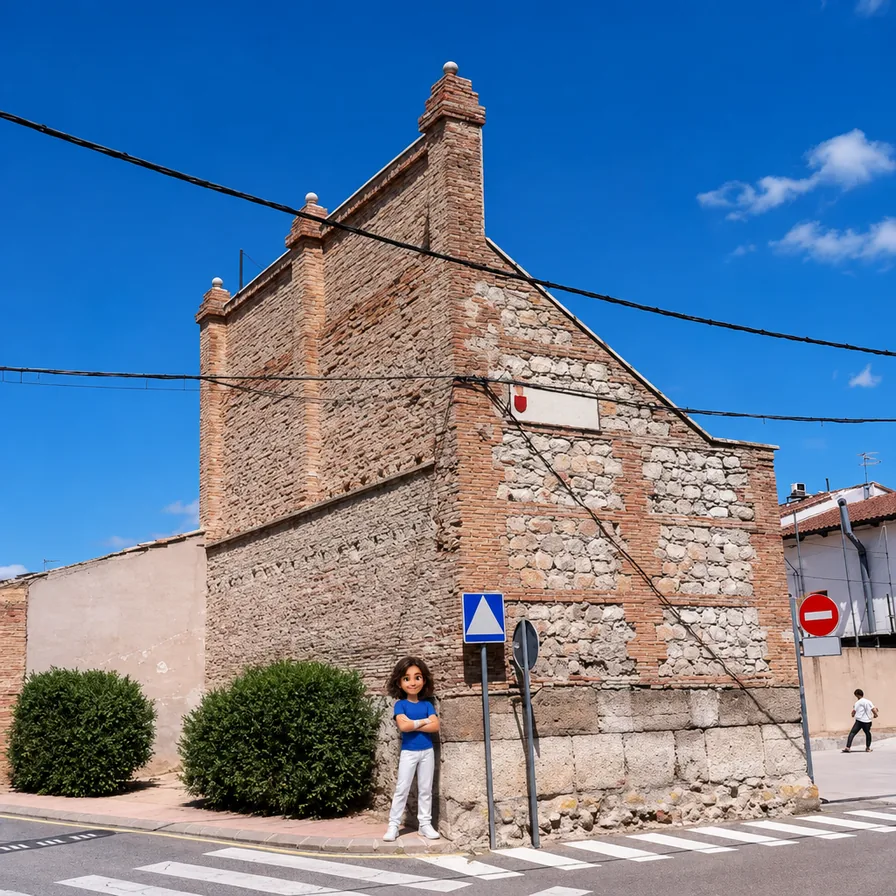
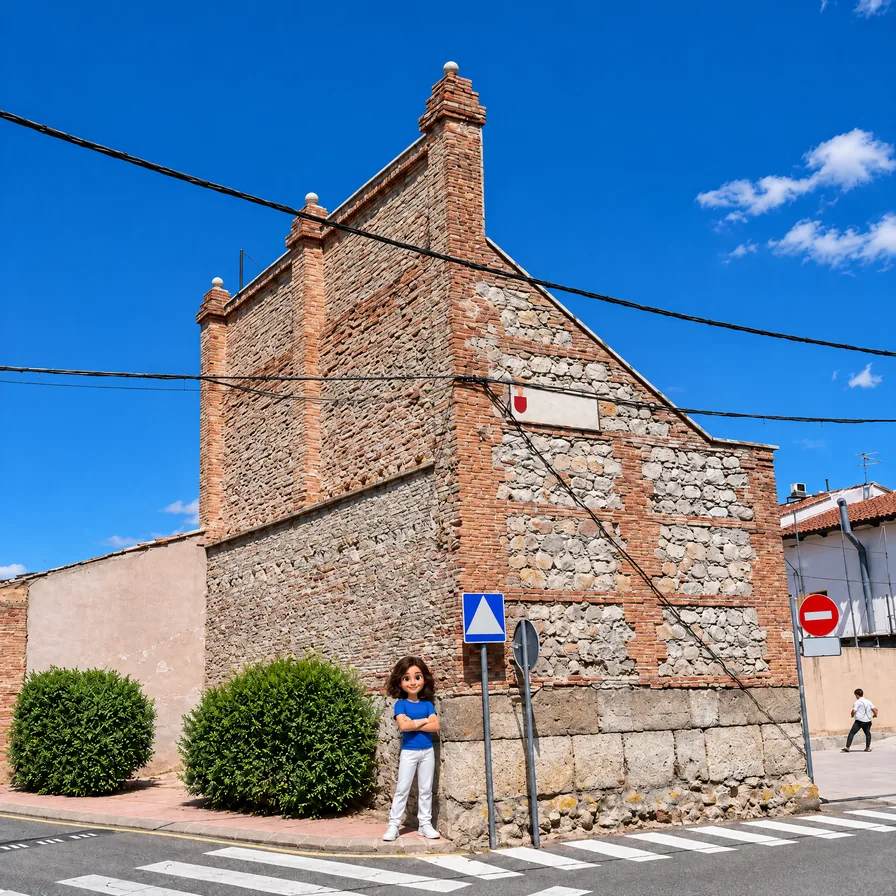
Pelota: las quince portadas del carrusel de campeonatos, regeneradas a 2048 px y nítidas en pantalla grande (sin publicar: pendiente del visto bueno del autor)
En un ordenador a 1920 × 1080 la portada de delante acerca la imagen hasta
3,6 veces y la de 896 px se estiraba 2,25 veces: se veía borrosa. Las quince
se han generado de nuevo en Higgsfield a 2048 px con la aprobada como
referencia (misma cámara, mismo frontón y mismo pelotari, comprobado una a
una) y van en tres tamaños: 896 px al abrir, 1280 px y 2048 px.

El carrusel mide lo ancha que se ve la portada de delante y, cuando se para,
pide la menor imagen que lo cubre; la pinta encima de la ligera, sin parpadeo,
y la suelta al alejarse. En el ordenador, también las dos vecinas; en el
móvil, solo la de delante y sin pasar de 1280 px.

Claude-Session: https://claude.ai/code/session_01LP3syHb7415C8M5w3wgHaS

diff --git a/src/game/carrusel3d.js b/src/game/carrusel3d.js
@@ -7,6 +7,8 @@
 // El tamaño sale del hueco que hay: la portada, de 3 de ancho por 4 de alto, del mayor alto que cabe, y en el móvil de pie
 // algo más estrecha para que asomen las de los lados.
 
+import { TACTIL } from '../util/tactil.js';
+
 const reduce = () => typeof matchMedia === 'function' && matchMedia('(prefers-reduced-motion: reduce)').matches;
 
 /**
@@ -58,6 +60,7 @@ export function carrusel3d(escena, o = {}) {
     VIS = Math.min(Math.floor(N / 2), o.vis || Math.max(1, Math.floor((o.banda ? GIRO : 80) / PASO)));
     escena.style.setProperty('--c3w', Math.round(w) + 'px');
     escena.style.perspective = Math.round(w * PERSP) + 'px';
+    nitK = -1;   // (con otro tamaño, puede hacer falta otra imagen)
     pinta();
   }
   function pinta() {
@@ -79,7 +82,43 @@ export function carrusel3d(escena, o = {}) {
       T.forEach((t, k) => { const on = k === f; t.classList.toggle('frente', on); t.tabIndex = on ? 0 : -1; t.setAttribute('aria-current', String(on)); });
       o.alCambiar?.(f, T[f]);
     }
+    pideNitidas();
   }
+  // LA IMAGEN NÍTIDA (18 de noviembre de 2026; el autor, con el carrusel de campeonatos en una pantalla de ordenador: «las
+  // imágenes no tienen calidad. Esto no puede ocurrir»). Cada portada lleva su imagen ligera (896 px), que es la que se
+  // carga al abrir, y en data-nitida las mayores («url ancho, url ancho»). La de delante acerca la imagen unas 3,6 veces
+  // para encuadrar al pelotari: en una pantalla de 1920 px hacen falta 2.000 px de imagen y con 896 se estiraba más del
+  // doble. Cuando el anillo se para, la de delante (y en el ordenador también sus dos vecinas, que ya quedan listas para
+  // el paso siguiente) pide la menor que cubre lo que se ve y, ya descargada y descodificada, se pinta ENCIMA de la
+  // ligera (--nit sobre --foto): sin parpadeo. Al alejarse la suelta, para no guardar descodificadas quince imágenes de
+  // 2048 px (17 MB cada una). En el móvil, solo la de delante y sin pasar de 1280 px.
+  const DPR = Math.min(typeof devicePixelRatio === 'number' ? devicePixelRatio : 1, TACTIL ? 2 : 3), RADIO = TACTIL ? 0 : 1, TOPE = TACTIL ? 1400 : 1e9;
+  let nitT = 0, nitK = -1; const nit0 = performance.now();
+  const mayores = (t) => t._nl || (t._nl = (t.dataset.nitida || '').split(',').map(s => s.trim().split(/\s+/)).filter(q => q[0] && +q[1]).map(([u, n]) => ({ u, n: +n })).filter(x => x.n <= TOPE).sort((x, y) => x.n - y.n));
+  function afina(t) {
+    const L = mayores(t); if (!L.length) return;
+    // (lo ancha que se ve de verdad la de delante: su ancho, lo que se adelanta, un 3,5 %, y la escala que lleve el
+    // anillo entero, que en la pantalla de campeonatos la agranda un tercio; y de ahí, lo que acerca la imagen. 0,85:
+    // un 15 % de estirado no se nota)
+    const escala = anillo.offsetWidth ? anillo.getBoundingClientRect().width / anillo.offsetWidth : 1;
+    const zoom = (parseFloat(t.style.backgroundSize) || 100) / 100, falta = w * 1.035 * (escala || 1) * DPR * zoom * 0.85;
+    const v = falta <= (+t.dataset.ancho || 0) ? null : (L.find(x => x.n >= falta) || L[L.length - 1]);
+    if (!v) return suelta(t);
+    if (t._nu && t._nn >= v.n) return;   // (ya tiene esa o una mayor: no se baja otra)
+    t._nu = v.u; t._nn = v.n;
+    const im = new Image(); im.decoding = 'async'; im.src = v.u;
+    const pon = () => { if (t._nu === v.u && escena.isConnected) { t._im = im; t.style.setProperty('--nit', `url('${v.u}')`); } };
+    (im.decode ? im.decode() : new Promise((ok, no) => { im.onload = ok; im.onerror = no; })).then(pon, () => { if (im.complete && im.naturalWidth) pon(); else if (t._nu === v.u) { t._nu = ''; t._nn = 0; } });
+  }
+  function suelta(t) { if (!t._nu) return; t._nu = ''; t._nn = 0; t._im = null; t.style.removeProperty('--nit'); }
+  function nitidas() {
+    const f = md(Math.round(meta));
+    T.forEach((t, k) => { if (!t.dataset.nitida) return; let d = md(k - f); if (d > N / 2) d = N - d;
+      if (d <= RADIO) afina(t); else if (d > (TACTIL ? 0 : VIS)) suelta(t); });
+  }
+  // (solo cuando la de delante lleva un momento siendo la misma: girando deprisa no se pide la de cada portada que pasa.
+  // Y al abrir, medio segundo: la pantalla entra algo agrandada y la medida saldría de más)
+  const pideNitidas = () => { const f = md(Math.round(meta)); if (f === nitK) return; nitK = f; clearTimeout(nitT); nitT = setTimeout(nitidas, performance.now() - nit0 < 500 ? 560 : 160); };
   function anima() {
     if (raf) return;
     last = performance.now();
@@ -142,7 +181,7 @@ export function carrusel3d(escena, o = {}) {
   };
   addEventListener('keydown', teclas);
   const ro = new ResizeObserver(() => mide()); ro.observe(escena);
-  function quita() { ro.disconnect(); removeEventListener('keydown', teclas); cancelAnimationFrame(raf); }
+  function quita() { ro.disconnect(); removeEventListener('keydown', teclas); cancelAnimationFrame(raf); clearTimeout(nitT); }
   mide();
   // (al abrir, las portadas entran una tras otra desde abajo, de la de delante hacia los lados: CSS, .c3-entra)
   if (!reduce()) { T.forEach((t, k) => t.style.setProperty('--e', String(Math.min(6, Math.abs(aparte(k)))))); anillo.classList.add('c3-entra'); setTimeout(() => anillo.classList.remove('c3-entra'), 1100); }
@@ -159,7 +198,7 @@ export const CSS_CARRUSEL3D = `
 .c3-escena{position:relative;flex:1 1 auto;min-height:150px;display:flex;align-items:center;justify-content:center;touch-action:pan-y;user-select:none;-webkit-user-select:none;cursor:grab}
 .c3-escena:active{cursor:grabbing}
 .c3-anillo{position:relative;width:var(--c3w,200px);aspect-ratio:var(--c3ar,.75);max-height:100%;transform-style:preserve-3d}
-.c3-anillo>*{position:absolute;inset:0;margin:0;padding:0;border:0;border-radius:12px;overflow:hidden;background:#150b2e center/cover no-repeat;background-image:var(--foto,none);color:#fff;font:inherit;text-align:left;cursor:pointer;
+.c3-anillo>*{position:absolute;inset:0;margin:0;padding:0;border:0;border-radius:12px;overflow:hidden;background:#150b2e center/cover no-repeat;background-image:var(--nit,none),var(--foto,none);color:#fff;font:inherit;text-align:left;cursor:pointer;
   box-shadow:0 14px 34px rgba(4,1,12,.5);backface-visibility:hidden;-webkit-backface-visibility:hidden;will-change:transform;transition:box-shadow .25s,outline-color .25s;outline:2px solid transparent;outline-offset:-2px}
 .c3-anillo>*::after{content:'';position:absolute;inset:0;background:#07020f;opacity:calc(var(--d,0) * .62);pointer-events:none;transition:opacity .2s}
 .c3-anillo>.frente{outline-color:var(--ac,#ff4fd8);box-shadow:0 0 0 1px rgba(255,255,255,.12),0 0 26px color-mix(in srgb,var(--ac,#ff4fd8) 45%,transparent),0 18px 40px rgba(4,1,12,.55)}

diff --git a/src/game/torneo.js b/src/game/torneo.js
@@ -41,6 +41,14 @@ import { DESTACADOS, TIPOS } from '../data/frontones.js';
 // encima. Fotos, autores y licencias en assets/pelota/fondos/LICENCIAS.md)
 const FONDOS = Object.fromEntries(Object.entries(import.meta.glob('../assets/pelota/fondos/*.webp', { eager: true, query: '?url', import: 'default' }))
   .map(([k, u]) => [k.split('/').pop().replace('.webp', ''), u]));
+// (las mismas, mayores: 1280 px en media/ y 2048 px en hd/. No se cargan al abrir: el carrusel pide la que hace falta
+// para la portada de delante según lo grande que se vea, ver «LA IMAGEN NÍTIDA» en carrusel3d.js. Las tres salen de la
+// misma imagen de 2048 px, regenerada el 18 de noviembre de 2026 a partir de la aprobada; el autor: «no me vale que
+// apañes las imágenes. Si hace falta, genéralas de nuevo»)
+const porNombre = (g) => Object.fromEntries(Object.entries(g).map(([k, u]) => [k.split('/').pop().replace('.webp', ''), u]));
+const FONDOS_M = porNombre(import.meta.glob('../assets/pelota/fondos/media/*.webp', { eager: true, query: '?url', import: 'default' }));
+const FONDOS_HD = porNombre(import.meta.glob('../assets/pelota/fondos/hd/*.webp', { eager: true, query: '?url', import: 'default' }));
+const nitida = (k) => { const l = [FONDOS_M[k] && `${FONDOS_M[k]} 1280`, FONDOS_HD[k] && `${FONDOS_HD[k]} 2048`].filter(Boolean); return l.length ? ` data-nitida="${l.join(',')}" data-ancho="896"` : ''; };
 // dónde está la figura en cada portada (fracciones de la imagen, que es cuadrada): el centro de lado y de la cabeza a los
 // pies, medido sobre las ilustraciones. Con eso, encuadre() acerca la imagen para que la figura ocupe unos dos tercios del
 // alto de la portada (3 × 4), centrada de lado y con los pies por encima del nombre. El autor, 17 de noviembre de 2026:
@@ -1250,7 +1258,7 @@ export function pelotaMenu(T, here = null, T2 = null, o = null, T3 = null, X = [
       { a: 'pelotaris', cls: 'cp-col', fondo: 'coleccion', figs: trio.map(n => pelotariFig(n, 'rojo', 'fig')).join(''), tag: 'Tu colección', name: 'Pelotaris', fase: 'Descubiertos', contra: `${C.have}/${C.total} pelotaris` },
     ].filter(Boolean);
     // (largo: los nombres de dos líneas, en letra algo menor, para que no tapen los pies del pelotari)
-    const portada = (it) => `<button type="button" class="c3-port ${it.cls}${it.name.replace(/&nbsp;/g, ' ').length > 14 ? ' largo' : ''}" data-a="${it.a}" aria-label="${it.name.replace(/&nbsp;/g, ' ')}"${FONDOS[it.fondo] ? ` style="--foto:url('${FONDOS[it.fondo]}')${(e => e ? `;background-size:${e.size};background-position:${e.pos}` : '')(encuadre(it.fondo, AR_PORT))}"` : ''}>${FONDOS[it.fondo] ? '' : `<span class="c3-figs">${it.figs}</span>`}${it.tx ? `<span class="c3-tx">${iconSVG('txapela', 16, 'cp-txi')}<b>${it.tx}</b></span>` : ''}<span class="c3-pie"><small>${it.tag}</small><b>${it.name}</b></span></button>`;
+    const portada = (it) => `<button type="button" class="c3-port ${it.cls}${it.name.replace(/&nbsp;/g, ' ').length > 14 ? ' largo' : ''}" data-a="${it.a}" aria-label="${it.name.replace(/&nbsp;/g, ' ')}"${FONDOS[it.fondo] ? ` style="--foto:url('${FONDOS[it.fondo]}')${(e => e ? `;background-size:${e.size};background-position:${e.pos}` : '')(encuadre(it.fondo, AR_PORT))}"${nitida(it.fondo)}` : ''}>${FONDOS[it.fondo] ? '' : `<span class="c3-figs">${it.figs}</span>`}${it.tx ? `<span class="c3-tx">${iconSVG('txapela', 16, 'cp-txi')}<b>${it.tx}</b></span>` : ''}<span class="c3-pie"><small>${it.tag}</small><b>${it.name}</b></span></button>`;
     // (AR_PORT: alto / ancho de cada portada; más estrechas que el 4/3 de antes, para que quepan más a lo ancho)
     const eu = isEU(), CLAVE = 'herrizherri-pelota-carta';
     cssMenu(); cssCarrusel();

diff --git a/ARQUITECTURA.md b/ARQUITECTURA.md
@@ -2335,7 +2335,22 @@ cuando cambie la estructura. Las copias de seguridad son ramas de git `copia-AAA
   Y la dificultad: el ritmo de la pelota, que había subido un 15 %, se queda en un 7 %; un toque sin cargar sale como
   un golpe a un tercio (antes botaba en el cuadro 2 y el rival remataba) y el castigo por recibir un pelotazo se reduce
   para el jugador según la ayuda del nivel. En el carrusel de campeonatos, portadas de 1,24 de alto por ancho (antes
-  1,46), nombres más grandes, el nombre del campeonato en la barra de abajo y el anillo de borde a borde de la pantalla. Regla para lo que venga: abajo, el hueco hasta la barra de inicio del iPhone no baja de 8 px, y
+  1,46), nombres más grandes, el nombre del campeonato en la barra de abajo y el anillo de borde a borde de la pantalla.
+  **Las portadas, nítidas en pantalla grande** (18 de noviembre, noche; el autor, con el carrusel en un ordenador: «las
+  imágenes no tienen calidad. Esto no puede ocurrir» y «no me vale que apañes las imágenes. Si hace falta, genéralas de
+  nuevo»). La causa, medida: la portada de delante acerca la imagen hasta 3,6 veces para encuadrar al pelotari, así que
+  a 1920 × 1080 hacían falta 2.020 px de imagen y solo había 896: se estiraba 2,25 veces. Las quince se han regenerado
+  en Higgsfield a 2048 px con la aprobada como referencia (misma cámara, mismo frontón, mismo pelotari en el mismo
+  sitio: comprobado una a una, con menos de medio píxel de desplazamiento sobre 896, por eso valen las mismas medidas
+  de `FIGURA`) y de esa imagen salen tres tamaños: `fondos/*.webp` (896 px, la que se carga al abrir, 1,9 MB entre
+  todas), `fondos/media/` (1280 px) y `fondos/hd/` (2048 px, 0,5-0,9 MB cada una). El carrusel (`carrusel3d.js`, «LA
+  IMAGEN NÍTIDA») mide lo ancha que se ve la portada de delante, con la escala de la pantalla y la densidad de
+  píxeles, y cuando el anillo se para pide la menor que lo cubre para la de delante y, en el ordenador, para sus dos
+  vecinas; ya descodificada, la pinta encima de la ligera (`--nit` sobre `--foto`), sin parpadeo, y la suelta al
+  alejarse. En el móvil, solo la de delante y sin pasar de 1280 px: quince imágenes de 2048 px descodificadas serían
+  250 MB. Girando deprisa no se pide ninguna. Regla: una portada que se acerca con `background-size` necesita una
+  imagen de su ancho en pantalla por lo que se acerca; ampliar con un filtro una imagen pequeña no es una solución.
+  Regla para lo que venga: abajo, el hueco hasta la barra de inicio del iPhone no baja de 8 px, y
   nada interactivo mide menos de 40 px. Se comprueba con la muesca y la barra de inicio simuladas
   (`Emulation.setSafeAreaInsetsOverride`, 47 px a los lados y 21 px abajo con el móvil tumbado), además de 1280×720 y de pie.
 - **Movimientos de pelota del pelotari** (`src/actors/pelotaMoves.js`; noviembre de 2026): Meshy solo traía correr,

diff --git a/src/assets/pelota/fondos/LICENCIAS.md b/src/assets/pelota/fondos/LICENCIAS.md
@@ -5,7 +5,16 @@ una es la foto de un frontón que existe, calcada tal cual: la misma cámara, la
 casas. Solo se ha quitado la publicidad, las letras y la gente que salía, y se ha puesto dentro a uno de los pelotaris
 del autor (src/assets/pelotaris, sus ilustraciones) con los brazos cruzados (la postura A que eligió el autor), al tamaño
 que tendría un chico de doce años en ese sitio y con la luz de la foto. La del Invierno lleva además una capa fina de
-nieve. Reducidas a 896 px y pasadas a WebP.
+nieve.
+
+El 18 de noviembre de 2026 se regeneraron las quince a 2048 px con el mismo modelo, cada una con su imagen aprobada como
+referencia y la orden de repetirla tal cual (misma cámara, mismo frontón, mismo pelotari en el mismo sitio y postura),
+porque en una pantalla de ordenador la de 896 px se veía borrosa en el carrusel de campeonatos; el autor: «no me vale que
+apañes las imágenes. Si hace falta, genéralas de nuevo». Aquí van en tres tamaños, los tres de esa imagen de 2048 px y
+en WebP: en esta carpeta a 896 px (la que se carga al abrir), en `media/` a 1280 px y en `hd/` a 2048 px (las pide el
+carrusel solo para la portada de delante, ver `src/game/carrusel3d.js`). Las de 896 px de antes están en el historial
+del repositorio (commit `dfaa214c` y anteriores). `mano.webp` sale de la versión recompuesta que quedó en el juego y
+`cuatro.webp`, de la del pelotari grande (commit `dfaa214c`).
 
 El autor pidió el 17 de noviembre que fueran «frontones reales», calcados «centímetro a centímetro» de fotografías, y
 que para las portadas hubiera «frontones grandes, frontones cubiertos»; dijo «me valen el Ogueta y el Beotibar». El

diff --git a/COORDINACION.md b/COORDINACION.md
@@ -21,7 +21,9 @@ Lo que está en `master` y todavía no se ve en la web. Lo añade quien lo sube;
   sin compilar en `docs/`: el partido de pelota (números de la pared izquierda legibles, rayas del suelo que no vibran,
   público un 9 % menor, dificultad rebajada) y el carrusel de campeonatos (portadas más anchas, nombre grande, anillo de
   borde a borde, fondo con profundidad) y la grada del partido con menos gente, cada espectador suelto y en 3D, y con
-  el movimiento de levantarse, celebrar y sentarse (`actors/crowdAnim.js`, nuevo, de Principal). Si otra ventana
+  el movimiento de levantarse, celebrar y sentarse (`actors/crowdAnim.js`, nuevo, de Principal); y las quince portadas
+  del carrusel de campeonatos regeneradas a 2048 px, con tres tamaños y la nítida solo en la de delante
+  (`assets/pelota/fondos/{media,hd}`, `carrusel3d.js` «LA IMAGEN NÍTIDA», `torneo.js` `nitida`). Si otra ventana
   necesita publicar lo suyo, que pregunte antes al autor.
 
 ## Peticiones entre ventanas
